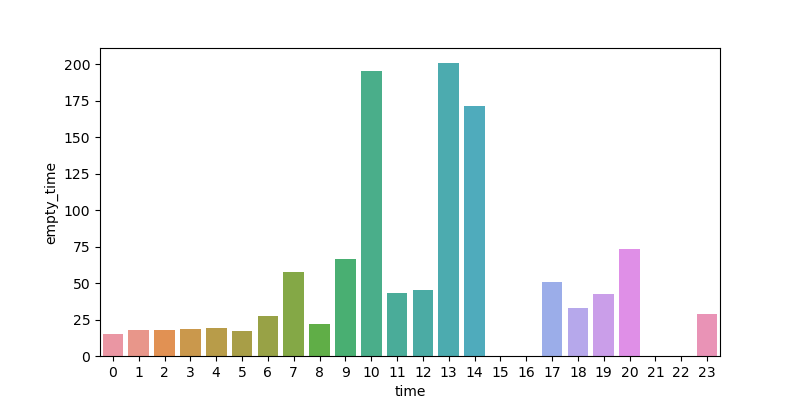
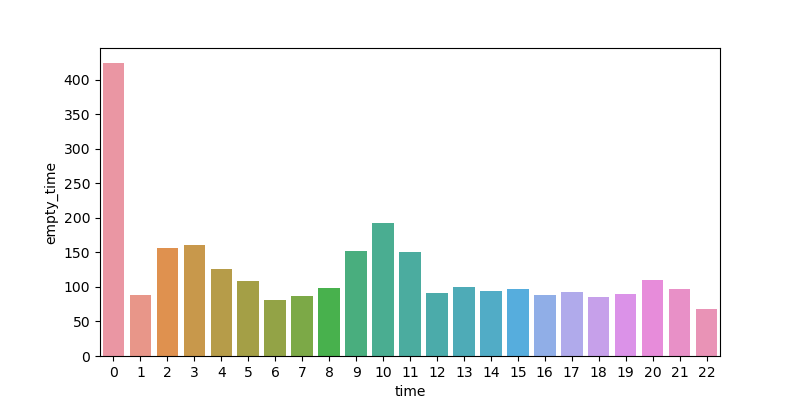
moduliztion of generator

Changed region(s): [[0.0625, 0.15, 0.9062, 0.96], [0.125, 0.9, 0.1562, 0.96]]

diff --git a/statistics/generate_graph.py b/statistics/generate_graph.py
@@ -1,0 +1,88 @@
+import pandas as pd
+import os
+from datetime import datetime, timedelta
+import matplotlib.pyplot as plt
+import seaborn as sns
+
+
+def generate_task_graph(log_df: pd.DataFrame):
+
+    # Data preprocessing
+    log_df['last_update_time'] = pd.to_datetime(
+        log_df['last_update_time'], unit='ms')
+    log_df['create_time'] = pd.to_datetime(log_df['create_time'], unit='ms')
+    log_df['wait_alloc_time'] /= 60000
+    log_df['wait_vehicle_time'] /= 60000
+    log_df['wait_total_time'] = log_df['wait_alloc_time'] + \
+        log_df['wait_vehicle_time']
+
+    # to koran time
+    log_df['last_update_time'] = pd.DatetimeIndex(
+        log_df['last_update_time'] + timedelta(hours=9))
+    log_df['create_time'] = pd.DatetimeIndex(
+        log_df['create_time'] + timedelta(hours=9))
+
+    # grouping Data
+    grouping_df = log_df.groupby([pd.Grouper(key='create_time', freq='1H')])[
+        'wait_vehicle_time', 'wait_alloc_time', 'wait_total_time'].mean().reset_index().sort_values(['create_time'])
+    grouping_df['create_time'] = grouping_df['create_time'].dt.hour
+
+    # ploting Data
+    plt.figure(figsize=(8, 4))
+    sns.barplot(x='create_time', y='wait_vehicle_time', data=grouping_df)
+    #sns.lineplot(x = 'create_time', y='wait_alloc_time', data = grouping_df)
+    plt.savefig("./img/wait-vehicle-time.png")
+
+    plt.figure(figsize=(8, 4))
+    sns.barplot(x='create_time', y='wait_alloc_time', data=grouping_df)
+    plt.savefig("./img/wait-alloc-time.png")
+
+    plt.figure(figsize=(8, 4))
+    sns.barplot(x='create_time', y='wait_total_time', data=grouping_df)
+    plt.savefig("./img/wait-total-time.png")
+
+    return
+
+
+def generate_vehicle_graph(log_df: pd.DataFrame):
+
+    # Data preprocessing
+    log_df['wait_alloc_time'] /= 60000
+    log_df['moving_to_load_time'] /= 60000
+
+    # summary Data
+    v_alloc_time_avg = log_df['wait_alloc_time'].mean()
+    v_moving_to_load_time = log_df['moving_to_load_time'].mean()
+
+    event_list = []
+
+    for v_event in log_df['empty_event']:
+        for event in v_event:
+            event_list.append(event)
+
+    event_df = pd.DataFrame(event_list, columns=['time', 'empty_time'])
+    event_df['time'] = pd.to_datetime(event_df['time'], unit='ms')
+    event_df['empty_time'] /= 60000
+
+    # to koran time
+    event_df['time'] = pd.DatetimeIndex(event_df['time'] + timedelta(hours=9))
+
+    # grouping Data
+    event_df_g = event_df.groupby([pd.Grouper(key='time', freq='1H')])[
+        'empty_time'].mean().reset_index().sort_values(['time'])
+    event_df_g['time'] = event_df_g['time'].dt.hour
+
+    # ploting Data
+    plt.figure(figsize=(8, 4))
+    sns.barplot(x='time', y='empty_time', data=event_df_g)
+    plt.savefig("./img/vehicle-empty-time.png")
+
+    return v_alloc_time_avg, v_moving_to_load_time
+
+
+def generate_image(logData: dict):
+    print(os.getcwd())
+    generate_task_graph(pd.DataFrame(logData['task']).T)
+    generate_vehicle_graph(pd.DataFrame(logData['vehicle']).T)
+
+    return

diff --git a/statistics/run.py b/statistics/run.py
@@ -6,6 +6,7 @@ from datetime import datetime
 sys.path.append(os.path.dirname(os.path.abspath(os.path.dirname(__file__))))
 from entity import Task as t, Vehicle as v
 
+import generate_graph as gg
 
 """
 log struct that this file using
@@ -201,7 +202,8 @@ if __name__ == "__main__":
         sys_logger.error("log is not exist.")
         exit()
     
-    generate_result(logs)
+    logData = generate_result(logs)
+    gg.generate_image(logData=logData)
     
     # logging INFO
     sys_logger.info("LAST task information")
